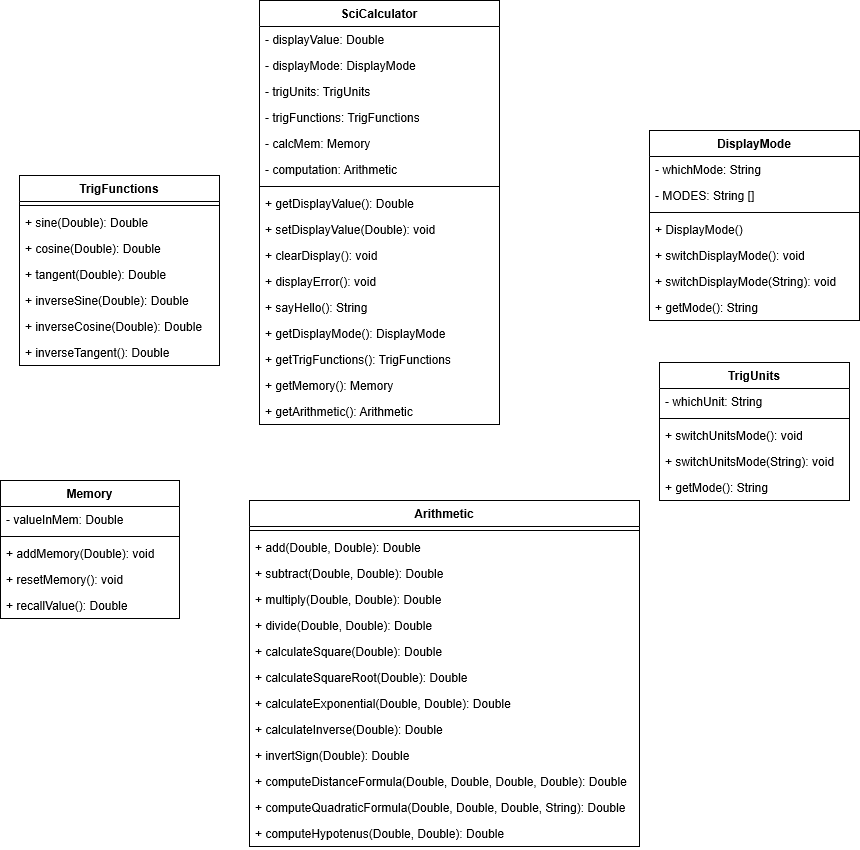
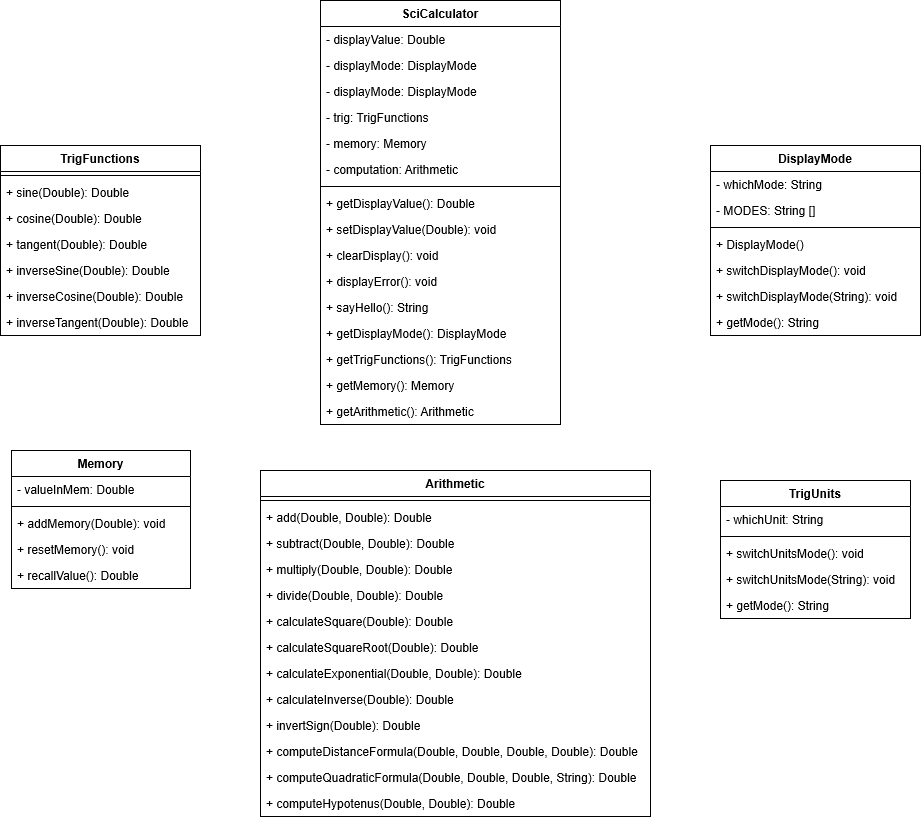
fixed the quadratic formula square root negative error and updated UML

diff --git a/src/test/java/com/codedifferently/ArithmeticTest.java b/src/test/java/com/codedifferently/ArithmeticTest.java
@@ -236,7 +236,8 @@ public class ArithmeticTest {
         //the numbers I used resulted in negative numbers for both positive and negative
         double posExpectedResult = -0.423;
         double negExpectedResult = -1.577;
-        double errorExpectedResult = 0.0;
+        double zeroExpectedResult = 0.0;
+        double negSquareRootRes = 0.0;
 
          //when
         SciCalculator unit = new SciCalculator();
@@ -255,18 +256,27 @@ public class ArithmeticTest {
         unit.setDisplayValue(negValue);
         double negActualResult = unit.getDisplayValue();
 
-        //testing the error
+        //testing dividing by zero
         unit.setDisplayValue(0.0);
-        double errorDisplayVal = unit.getDisplayValue();
+        double zeroDisplayVal = unit.getDisplayValue();
         //doesn't really matter what I pass in, just want a to be 0.0 because that is what I am dividing by
-        double errorValue = alu.computeQuadraticFormula(0.0, 6.0, 2.0, "neg", errorDisplayVal);
-        unit.setDisplayValue(errorValue);
-        double errorActualResult = unit.getDisplayValue();
+        double zeroErrorValue = alu.computeQuadraticFormula(0.0, 6.0, 2.0, "neg", zeroDisplayVal);
+        unit.setDisplayValue(zeroErrorValue);
+        double zeroErrorActualResult = unit.getDisplayValue();
+
+        //testing taking the square root of a negative number
+        unit.setDisplayValue(0.0);
+        double negErrorDisplayVal = unit.getDisplayValue();
+        //doesn't really matter what I pass in, just want a to be 0.0 because that is what I am dividing by
+        double squareRootErrorValue = alu.computeQuadraticFormula(0.0, 6.0, 2.0, "neg", negErrorDisplayVal);
+        unit.setDisplayValue(squareRootErrorValue);
+        double negSquareRootActualResult = unit.getDisplayValue();
 
         //then
         Assert.assertEquals(posExpectedResult, posActualResult, 0.01);
         Assert.assertEquals(negExpectedResult, negActualResult, 0.01);
-        Assert.assertEquals(errorExpectedResult, errorActualResult, 0.01);
+        Assert.assertEquals(zeroExpectedResult, zeroErrorActualResult, 0.01);
+        Assert.assertEquals(negSquareRootRes, negSquareRootActualResult, 0.01);
     }
 
     @Test

diff --git a/src/main/java/com/codedifferently/Arithmetic.java b/src/main/java/com/codedifferently/Arithmetic.java
@@ -57,7 +57,6 @@ public class Arithmetic {
     }
 
     public double computeDistanceFormula(double x1, double y1, double x2, double y2, double amountAlready) {
-        System.out.println("This is a test");
         return Math.sqrt(Math.pow((x2 - x1), 2) + Math.pow((y2 - y1), 2));
     }
 
@@ -66,15 +65,20 @@ public class Arithmetic {
             System.out.println("Cannot do quadratic formula with a as 0. Returning back original value");
             return amountAlready;
         }
+        //avoiding square root returning NAN because it's trying to take the sqrt of a negative
+        if(Math.pow(b, 2) - (4.0 * a * c) < 0.0) {
+            System.out.println("Cannot take the square root of a negative number (after computing the top half under the square root). Returning back original value.");
+            return amountAlready;
+        }
         double newB = invertSign(b);
-        double posTopPart = newB + Math.sqrt(Math.pow(b, 2) - (4.0 * a * c));
-        System.out.println("This is the top part" + posTopPart);
-        double negTopPart =  newB - Math.sqrt(Math.pow(b, 2) - (4.0 * a * c));
-        System.out.println("This is the top part" + negTopPart);
         if(posOrNeg.equals("pos")) {
+            double posTopPart = newB + Math.sqrt(Math.pow(b, 2) - (4.0 * a * c));
+            System.out.println("This is the top part pos: " + posTopPart);
             return posTopPart / (2.0 * a);
         }
         else if(posOrNeg.equals("neg")) {
+            double negTopPart =  newB - Math.sqrt(Math.pow(b, 2) - (4.0 * a * c));
+            System.out.println("This is the top part neg: " + negTopPart);
             return negTopPart / (2.0 * a);
         }
         return 0.0;
